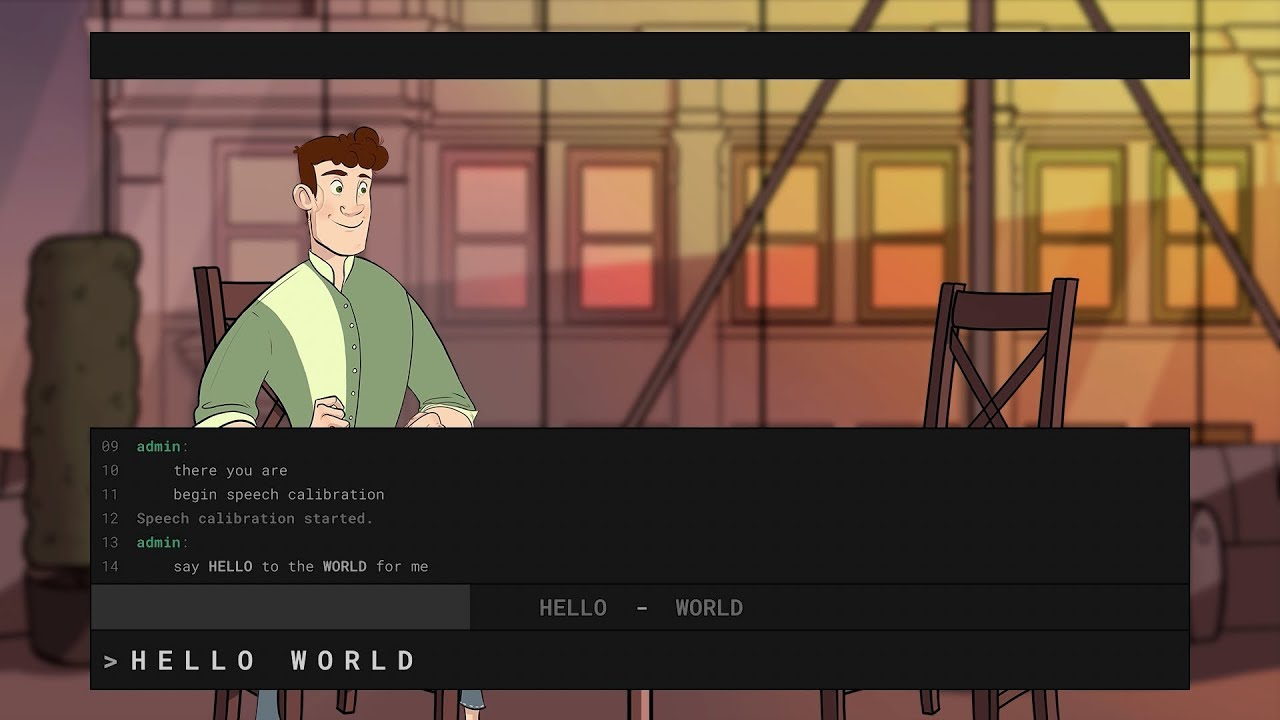
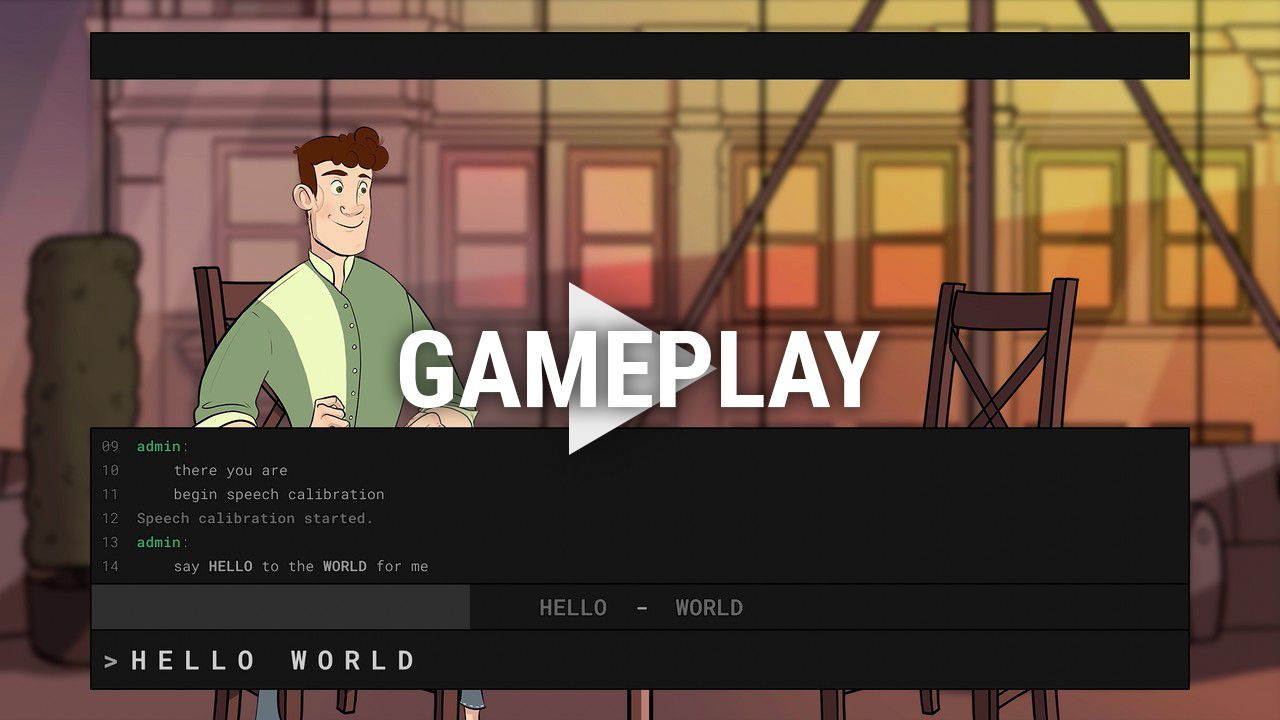
Removed redundant images, added new text and videos

diff --git a/schacht.html b/schacht.html
@@ -71,7 +71,7 @@
     </nav>
 </section>
 
-<section class="engine"><a href="https://mobirise.me/u">bootstrap website templates</a></section><section class="mbr-section article content1 cid-qQgb2jvf1m" id="content1-m">
+<section class="engine"><a href="https://mobirise.me/c">free web builder</a></section><section class="mbr-section article content1 cid-qQgb2jvf1m" id="content1-m">
     
      
 
@@ -159,11 +159,11 @@
                     <div id="bootstrap-toggle" class="toggle-panel accordionStyles tab-content">
                         <div class="card">
                             <div class="card-header" role="tab" id="headingOne">
-                                <a role="button" class="collapsed panel-title text-black" data-toggle="collapse" data-parent="#accordion" data-core="" href="#collapse1_81" aria-expanded="false" aria-controls="collapse1">
+                                <a role="button" class="collapsed panel-title text-black" data-toggle="collapse" data-parent="#accordion" data-core="" href="#collapse1_17" aria-expanded="false" aria-controls="collapse1">
                                     <h4 class="mbr-fonts-style display-7"><strong>▼ GAME DESIGN TASKS</strong></h4>
                                 </a>
                             </div>
-                            <div id="collapse1_81" class="panel-collapse noScroll collapse" role="tabpanel" aria-labelledby="headingOne">
+                            <div id="collapse1_17" class="panel-collapse noScroll collapse" role="tabpanel" aria-labelledby="headingOne">
                                 <div class="panel-body p-4">
                                     <p class="mbr-fonts-style panel-text display-7">- Pitched, designed, documented and refined numerous <strong>character abilities</strong> and<strong> level elements</strong>.
 <br>
@@ -175,12 +175,12 @@
                         </div>
                         <div class="card">
                             <div class="card-header" role="tab" id="headingTwo">
-                                <a role="button" class="collapsed panel-title text-black" data-toggle="collapse" data-parent="#accordion" data-core="" href="#collapse2_81" aria-expanded="false" aria-controls="collapse2">
+                                <a role="button" class="collapsed panel-title text-black" data-toggle="collapse" data-parent="#accordion" data-core="" href="#collapse2_17" aria-expanded="false" aria-controls="collapse2">
                                     <h4 class="mbr-fonts-style display-5"><strong>▼ LEVEL DESIGN TASKS</strong></h4>
                                 </a>
 
                             </div>
-                            <div id="collapse2_81" class="panel-collapse noScroll collapse" role="tabpanel" aria-labelledby="headingTwo">
+                            <div id="collapse2_17" class="panel-collapse noScroll collapse" role="tabpanel" aria-labelledby="headingTwo">
                                 <div class="panel-body p-4">
                                     <p class="mbr-fonts-style panel-text display-7">- Created the introductory <strong>tutorial level of the game</strong> in collaboration with the lead artist.
 <br>
@@ -203,7 +203,7 @@
     
 
     <div>
-        <div><!-- Filter --><!-- Gallery --><div class="mbr-gallery-row"><div class="mbr-gallery-layout-default"><div><div><div class="mbr-gallery-item mbr-gallery-item--p0" data-video-url="false" data-tags="Animated"><div href="#lb-gallery3-43" data-slide-to="0" data-toggle="modal"><img src="assets/images/ss-schacht-5-800x450.jpg" alt="" title=""><span class="icon-focus"></span></div></div><div class="mbr-gallery-item mbr-gallery-item--p0" data-video-url="false" data-tags="Responsive"><div href="#lb-gallery3-43" data-slide-to="1" data-toggle="modal"><img src="assets/images/ss-schacht-12-800x450.jpg" alt="" title=""><span class="icon-focus"></span></div></div><div class="mbr-gallery-item mbr-gallery-item--p0" data-video-url="false" data-tags="Awesome"><div href="#lb-gallery3-43" data-slide-to="2" data-toggle="modal"><img src="assets/images/ss-schacht-3-800x450.jpg" alt="" title=""><span class="icon-focus"></span></div></div><div class="mbr-gallery-item mbr-gallery-item--p0" data-video-url="false" data-tags="Awesome"><div href="#lb-gallery3-43" data-slide-to="3" data-toggle="modal"><img src="assets/images/ss-schacht-6-800x450.jpg" alt="" title=""><span class="icon-focus"></span></div></div></div></div><div class="clearfix"></div></div></div><!-- Lightbox --><div data-app-prevent-settings="" class="mbr-slider modal fade carousel slide" tabindex="-1" data-keyboard="true" data-interval="false" id="lb-gallery3-43"><div class="modal-dialog"><div class="modal-content"><div class="modal-body"><div class="carousel-inner"><div class="carousel-item"><img src="assets/images/ss-schacht-5.jpg" alt="" title=""></div><div class="carousel-item active"><img src="assets/images/ss-schacht-12.jpg" alt="" title=""></div><div class="carousel-item"><img src="assets/images/ss-schacht-3.jpg" alt="" title=""></div><div class="carousel-item"><img src="assets/images/ss-schacht-6.jpg" alt="" title=""></div></div><a class="carousel-control carousel-control-prev" role="button" data-slide="prev" href="#lb-gallery3-43"><span class="mbri-left mbr-iconfont" aria-hidden="true"></span><span class="sr-only">Previous</span></a><a class="carousel-control carousel-control-next" role="button" data-slide="next" href="#lb-gallery3-43"><span class="mbri-right mbr-iconfont" aria-hidden="true"></span><span class="sr-only">Next</span></a><a class="close" href="#" role="button" data-dismiss="modal"><span class="sr-only">Close</span></a></div></div></div></div></div>
+        <div><!-- Filter --><!-- Gallery --><div class="mbr-gallery-row"><div class="mbr-gallery-layout-default"><div><div><div class="mbr-gallery-item mbr-gallery-item--p0 video-slide" data-video-url="https://www.youtube.com/watch?v=XiZfLED2Hyw" data-tags="Animated"><div href="#lb-gallery3-43" data-slide-to="0" data-toggle="modal"><div></div><img alt="" src="assets/images/2019-3-2-1-14-43-853197.jpg"><span class="icon-video"></span></div></div><div class="mbr-gallery-item mbr-gallery-item--p0" data-video-url="false" data-tags="Responsive"><div href="#lb-gallery3-43" data-slide-to="1" data-toggle="modal"><img src="assets/images/ss-schacht-12-800x450.jpg" alt="" title=""><span class="icon-focus"></span></div></div><div class="mbr-gallery-item mbr-gallery-item--p0" data-video-url="false" data-tags="Awesome"><div href="#lb-gallery3-43" data-slide-to="2" data-toggle="modal"><img src="assets/images/ss-schacht-3-800x450.jpg" alt="" title=""><span class="icon-focus"></span></div></div><div class="mbr-gallery-item mbr-gallery-item--p0" data-video-url="false" data-tags="Awesome"><div href="#lb-gallery3-43" data-slide-to="3" data-toggle="modal"><img src="assets/images/ss-schacht-6-800x450.jpg" alt="" title=""><span class="icon-focus"></span></div></div></div></div><div class="clearfix"></div></div></div><!-- Lightbox --><div data-app-prevent-settings="" class="mbr-slider modal fade carousel slide" tabindex="-1" data-keyboard="true" data-interval="false" id="lb-gallery3-43"><div class="modal-dialog"><div class="modal-content"><div class="modal-body"><div class="carousel-inner"><div class="carousel-item active video-container"><img src="assets/images/ss-schacht-5.jpg" alt="" title=""></div><div class="carousel-item"><img src="assets/images/ss-schacht-12.jpg" alt="" title=""></div><div class="carousel-item"><img src="assets/images/ss-schacht-3.jpg" alt="" title=""></div><div class="carousel-item"><img src="assets/images/ss-schacht-6.jpg" alt="" title=""></div></div><a class="carousel-control carousel-control-prev" role="button" data-slide="prev" href="#lb-gallery3-43"><span class="mbri-left mbr-iconfont" aria-hidden="true"></span><span class="sr-only">Previous</span></a><a class="carousel-control carousel-control-next" role="button" data-slide="next" href="#lb-gallery3-43"><span class="mbri-right mbr-iconfont" aria-hidden="true"></span><span class="sr-only">Next</span></a><a class="close" href="#" role="button" data-dismiss="modal"><span class="sr-only">Close</span></a></div></div></div></div></div>
     </div>
 
 </section>
@@ -232,7 +232,7 @@
     
 
     <div>
-        <div><!-- Filter --><!-- Gallery --><div class="mbr-gallery-row"><div class="mbr-gallery-layout-default"><div><div><div class="mbr-gallery-item mbr-gallery-item--p0" data-video-url="false" data-tags="Responsive"><div href="#lb-gallery3-3p" data-slide-to="0" data-toggle="modal"><img src="assets/images/ss-schacht-level1-plan-800x450.jpg" alt="" title=""><span class="icon-focus"></span></div></div><div class="mbr-gallery-item mbr-gallery-item--p0" data-video-url="false" data-tags="Responsive"><div href="#lb-gallery3-3p" data-slide-to="1" data-toggle="modal"><img src="assets/images/ss-schacht-level1-final-800x450.jpg" alt="" title=""><span class="icon-focus"></span></div></div><div class="mbr-gallery-item mbr-gallery-item--p0 video-slide" data-video-url="https://www.youtube.com/watch?v=93_LXzhvsWM" data-tags="Responsive"><div href="#lb-gallery3-3p" data-slide-to="2" data-toggle="modal"><div></div><img alt="" src="assets/images/2018-5-1-18-41-10-168879.jpg"><span class="icon-video"></span></div></div></div></div><div class="clearfix"></div></div></div><!-- Lightbox --><div data-app-prevent-settings="" class="mbr-slider modal fade carousel slide" tabindex="-1" data-keyboard="true" data-interval="false" id="lb-gallery3-3p"><div class="modal-dialog"><div class="modal-content"><div class="modal-body"><div class="carousel-inner"><div class="carousel-item"><img src="assets/images/ss-schacht-level1-plan.jpg" alt="" title=""></div><div class="carousel-item"><img src="assets/images/ss-schacht-level1-final.jpg" alt="" title=""></div><div class="carousel-item active video-container"><img src="assets/images/ss-schacht-level1-final.jpg" alt="" title=""></div></div><a class="carousel-control carousel-control-prev" role="button" data-slide="prev" href="#lb-gallery3-3p"><span class="mbri-left mbr-iconfont" aria-hidden="true"></span><span class="sr-only">Previous</span></a><a class="carousel-control carousel-control-next" role="button" data-slide="next" href="#lb-gallery3-3p"><span class="mbri-right mbr-iconfont" aria-hidden="true"></span><span class="sr-only">Next</span></a><a class="close" href="#" role="button" data-dismiss="modal"><span class="sr-only">Close</span></a></div></div></div></div></div>
+        <div><!-- Filter --><!-- Gallery --><div class="mbr-gallery-row"><div class="mbr-gallery-layout-default"><div><div><div class="mbr-gallery-item mbr-gallery-item--p0 video-slide" data-video-url="https://www.youtube.com/watch?v=93_LXzhvsWM" data-tags="Responsive"><div href="#lb-gallery3-3p" data-slide-to="0" data-toggle="modal"><div></div><img alt="" src="assets/images/2018-5-1-18-41-10-168879.jpg"><span class="icon-video"></span></div></div><div class="mbr-gallery-item mbr-gallery-item--p0" data-video-url="false" data-tags="Responsive"><div href="#lb-gallery3-3p" data-slide-to="1" data-toggle="modal"><img src="assets/images/ss-schacht-level1-plan-800x450.jpg" alt="" title=""><span class="icon-focus"></span></div></div><div class="mbr-gallery-item mbr-gallery-item--p0" data-video-url="false" data-tags="Responsive"><div href="#lb-gallery3-3p" data-slide-to="2" data-toggle="modal"><img src="assets/images/ss-schacht-level1-final-800x450.jpg" alt="" title=""><span class="icon-focus"></span></div></div></div></div><div class="clearfix"></div></div></div><!-- Lightbox --><div data-app-prevent-settings="" class="mbr-slider modal fade carousel slide" tabindex="-1" data-keyboard="true" data-interval="false" id="lb-gallery3-3p"><div class="modal-dialog"><div class="modal-content"><div class="modal-body"><div class="carousel-inner"><div class="carousel-item active video-container"><img src="assets/images/ss-schacht-level1-final.jpg" alt="" title=""></div><div class="carousel-item"><img src="assets/images/ss-schacht-level1-plan.jpg" alt="" title=""></div><div class="carousel-item"><img src="assets/images/ss-schacht-level1-final.jpg" alt="" title=""></div></div><a class="carousel-control carousel-control-prev" role="button" data-slide="prev" href="#lb-gallery3-3p"><span class="mbri-left mbr-iconfont" aria-hidden="true"></span><span class="sr-only">Previous</span></a><a class="carousel-control carousel-control-next" role="button" data-slide="next" href="#lb-gallery3-3p"><span class="mbri-right mbr-iconfont" aria-hidden="true"></span><span class="sr-only">Next</span></a><a class="close" href="#" role="button" data-dismiss="modal"><span class="sr-only">Close</span></a></div></div></div></div></div>
     </div>
 
 </section>

diff --git a/twin-sprouts.html b/twin-sprouts.html
@@ -71,7 +71,7 @@
     </nav>
 </section>
 
-<section class="engine"><a href="https://mobirise.me/b">how to create a site</a></section><section class="mbr-section article content1 cid-qQtd5U7zAG" id="content1-2b">
+<section class="engine"><a href="https://mobirise.me/k">develop free website</a></section><section class="mbr-section article content1 cid-qQtd5U7zAG" id="content1-2b">
     
      
 
@@ -122,7 +122,7 @@
 
     <div class="container">
         <div class="media-container-row">
-            <div class="mbr-text col-12 col-md-8 mbr-fonts-style display-7"><p><span style="font-size: 1rem;">Twin Sprouts was developed by a team of 4 students at Cologne Game Lab as a semester project in a short period of 2 months.</span></p><p><span style="font-size: 1rem;">In addition to collaborating on gameplay design with other team members, <strong>producing documentation, organizing playtests </strong>and <strong>creating the level</strong> of the game, I took on the mantle of the <strong>project manager</strong>, managing the project pipeline around the main constraints of time and scope.</span></p></div>
+            <div class="mbr-text col-12 col-md-8 mbr-fonts-style display-7"><p><span style="font-size: 1rem;">Twin Sprouts was developed by a team of 4 students at Cologne Game Lab as a semester project in a short period of 2 months.</span></p><p><span style="font-size: 1rem;">In addition to collaborating on gameplay design with other team members, <strong>producing documentation, organizing playtests </strong>and <strong>creating the level</strong> of the game, I took on the mantle of the <strong>project manager</strong>, managing the project pipeline around the main constraints of time and scope.</span></p><p><span style="font-size: 1rem;">Perhaps the most interesting aspect of Twin Sprouts is the <strong>unique blend of cooperative and competitive gameplay</strong>. The game is played by two players who share the goal of growing their shared garden. The score of each player is tracked individually during gameplay, and combined at the end of the round. Both the <strong>individual and team scores</strong> are saved on two separate leaderboards</span><span style="font-size: 1rem;">. The more competitive the players are during the session, the higher their combined scores will be in the end.</span></p></div>
         </div>
     </div>
 </section>
@@ -147,7 +147,7 @@
     
 
     <div>
-        <div><!-- Filter --><!-- Gallery --><div class="mbr-gallery-row"><div class="mbr-gallery-layout-default"><div><div><div class="mbr-gallery-item mbr-gallery-item--p0" data-video-url="false" data-tags="Awesome"><div href="#lb-gallery1-2g" data-slide-to="0" data-toggle="modal"><img src="assets/images/ss-ts-1-800x450.jpg" alt="" title=""><span class="icon-focus"></span></div></div><div class="mbr-gallery-item mbr-gallery-item--p0" data-video-url="false" data-tags="Responsive"><div href="#lb-gallery1-2g" data-slide-to="1" data-toggle="modal"><img src="assets/images/ss-ts-2-800x450.jpg" alt="" title=""><span class="icon-focus"></span></div></div><div class="mbr-gallery-item mbr-gallery-item--p0" data-video-url="false" data-tags="Creative"><div href="#lb-gallery1-2g" data-slide-to="2" data-toggle="modal"><img src="assets/images/ss-ts-3-800x450.jpg" alt="" title=""><span class="icon-focus"></span></div></div><div class="mbr-gallery-item mbr-gallery-item--p0" data-video-url="false" data-tags="Creative"><div href="#lb-gallery1-2g" data-slide-to="3" data-toggle="modal"><img src="assets/images/ss-ts-4-800x450.jpg" alt="" title=""><span class="icon-focus"></span></div></div></div></div><div class="clearfix"></div></div></div><!-- Lightbox --><div data-app-prevent-settings="" class="mbr-slider modal fade carousel slide" tabindex="-1" data-keyboard="true" data-interval="false" id="lb-gallery1-2g"><div class="modal-dialog"><div class="modal-content"><div class="modal-body"><div class="carousel-inner"><div class="carousel-item"><img src="assets/images/ss-ts-1.jpg" alt="" title=""></div><div class="carousel-item"><img src="assets/images/ss-ts-2.jpg" alt="" title=""></div><div class="carousel-item"><img src="assets/images/ss-ts-3.jpg" alt="" title=""></div><div class="carousel-item active"><img src="assets/images/ss-ts-4.jpg" alt="" title=""></div></div><a class="carousel-control carousel-control-prev" role="button" data-slide="prev" href="#lb-gallery1-2g"><span class="mbri-left mbr-iconfont" aria-hidden="true"></span><span class="sr-only">Previous</span></a><a class="carousel-control carousel-control-next" role="button" data-slide="next" href="#lb-gallery1-2g"><span class="mbri-right mbr-iconfont" aria-hidden="true"></span><span class="sr-only">Next</span></a><a class="close" href="#" role="button" data-dismiss="modal"><span class="sr-only">Close</span></a></div></div></div></div></div>
+        <div><!-- Filter --><!-- Gallery --><div class="mbr-gallery-row"><div class="mbr-gallery-layout-default"><div><div><div class="mbr-gallery-item mbr-gallery-item--p0 video-slide" data-video-url="https://www.youtube.com/watch?v=nXSHxSimhN0" data-tags="Creative"><div href="#lb-gallery1-2g" data-slide-to="0" data-toggle="modal"><div></div><img alt="" src="assets/images/2019-3-2-1-23-59-92827.jpg"><span class="icon-video"></span></div></div><div class="mbr-gallery-item mbr-gallery-item--p0" data-video-url="false" data-tags="Awesome"><div href="#lb-gallery1-2g" data-slide-to="1" data-toggle="modal"><img src="assets/images/ss-ts-1-800x450.jpg" alt="" title=""><span class="icon-focus"></span></div></div><div class="mbr-gallery-item mbr-gallery-item--p0" data-video-url="false" data-tags="Responsive"><div href="#lb-gallery1-2g" data-slide-to="2" data-toggle="modal"><img src="assets/images/ss-ts-2-800x450.jpg" alt="" title=""><span class="icon-focus"></span></div></div><div class="mbr-gallery-item mbr-gallery-item--p0" data-video-url="false" data-tags="Creative"><div href="#lb-gallery1-2g" data-slide-to="3" data-toggle="modal"><img src="assets/images/ss-ts-4-800x450.jpg" alt="" title=""><span class="icon-focus"></span></div></div></div></div><div class="clearfix"></div></div></div><!-- Lightbox --><div data-app-prevent-settings="" class="mbr-slider modal fade carousel slide" tabindex="-1" data-keyboard="true" data-interval="false" id="lb-gallery1-2g"><div class="modal-dialog"><div class="modal-content"><div class="modal-body"><div class="carousel-inner"><div class="carousel-item active video-container"><img src="assets/images/ss-ts-3.jpg" alt="" title=""></div><div class="carousel-item"><img src="assets/images/ss-ts-1.jpg" alt="" title=""></div><div class="carousel-item"><img src="assets/images/ss-ts-2.jpg" alt="" title=""></div><div class="carousel-item"><img src="assets/images/ss-ts-4.jpg" alt="" title=""></div></div><a class="carousel-control carousel-control-prev" role="button" data-slide="prev" href="#lb-gallery1-2g"><span class="mbri-left mbr-iconfont" aria-hidden="true"></span><span class="sr-only">Previous</span></a><a class="carousel-control carousel-control-next" role="button" data-slide="next" href="#lb-gallery1-2g"><span class="mbri-right mbr-iconfont" aria-hidden="true"></span><span class="sr-only">Next</span></a><a class="close" href="#" role="button" data-dismiss="modal"><span class="sr-only">Close</span></a></div></div></div></div></div>
     </div>
 
 </section>

diff --git a/what-the-cluck.html b/what-the-cluck.html
@@ -71,7 +71,7 @@
     </nav>
 </section>
 
-<section class="engine"><a href="https://mobirise.me/m">free web design templates</a></section><section class="mbr-section article content1 cid-qQgJJLECgr" id="content1-11">
+<section class="engine"><a href="https://mobirise.me/l">free website templates</a></section><section class="mbr-section article content1 cid-qQgJJLECgr" id="content1-11">
     
      
 
@@ -154,11 +154,11 @@
                     <div id="bootstrap-toggle" class="toggle-panel accordionStyles tab-content">
                         <div class="card">
                             <div class="card-header" role="tab" id="headingOne">
-                                <a role="button" class="collapsed panel-title text-black" data-toggle="collapse" data-parent="#accordion" data-core="" href="#collapse1_28" aria-expanded="false" aria-controls="collapse1">
+                                <a role="button" class="collapsed panel-title text-black" data-toggle="collapse" data-parent="#accordion" data-core="" href="#collapse1_34" aria-expanded="false" aria-controls="collapse1">
                                     <h4 class="mbr-fonts-style display-7"><strong>▼ GAME DESIGN TASKS</strong></h4>
                                 </a>
                             </div>
-                            <div id="collapse1_28" class="panel-collapse noScroll collapse" role="tabpanel" aria-labelledby="headingOne">
+                            <div id="collapse1_34" class="panel-collapse noScroll collapse" role="tabpanel" aria-labelledby="headingOne">
                                 <div class="panel-body p-4">
                                     <p class="mbr-fonts-style panel-text display-7">- <strong>Led the content design team</strong>, distributing tasks between team members and keeping track of their work on JIRA.<br><br>- Oversaw the designing process of <strong>three separate multiplayer game modes</strong>.<br><br>- Worked loosely on the <strong>setting, camera and user interface</strong> with other members of the design team.</p>
                                 </div>
@@ -166,12 +166,12 @@
                         </div>
                         <div class="card">
                             <div class="card-header" role="tab" id="headingTwo">
-                                <a role="button" class="collapsed panel-title text-black" data-toggle="collapse" data-parent="#accordion" data-core="" href="#collapse2_28" aria-expanded="false" aria-controls="collapse2">
+                                <a role="button" class="collapsed panel-title text-black" data-toggle="collapse" data-parent="#accordion" data-core="" href="#collapse2_34" aria-expanded="false" aria-controls="collapse2">
                                     <h4 class="mbr-fonts-style display-7"><strong>▼ LEVEL DESIGN TASKS</strong></h4>
                                 </a>
 
                             </div>
-                            <div id="collapse2_28" class="panel-collapse noScroll collapse" role="tabpanel" aria-labelledby="headingTwo">
+                            <div id="collapse2_34" class="panel-collapse noScroll collapse" role="tabpanel" aria-labelledby="headingTwo">
                                 <div class="panel-body p-4">
                                     <p class="mbr-fonts-style panel-text display-7">- Designed and built <strong>five maps</strong> for different game modes.<br><br>- Iterated heavily on different map layouts to find the best fit for different game modes and player count.<br><br>- Created the <strong>cinematic tutorial introduction</strong> for level maps; including animated sequences, camera setup and user interface.<br></p>
                                 </div>

diff --git a/super-combat-high.html b/super-combat-high.html
@@ -71,7 +71,7 @@
     </nav>
 </section>
 
-<section class="engine"><a href="https://mobirise.me/n">free landing page templates</a></section><section class="mbr-section article content1 cid-qUG1WM5qW0" id="content1-3r">
+<section class="engine"><a href="https://mobirise.me/q">responsive website templates</a></section><section class="mbr-section article content1 cid-qUG1WM5qW0" id="content1-3r">
     
      
 
@@ -155,11 +155,11 @@
                     <div id="bootstrap-toggle" class="toggle-panel accordionStyles tab-content">
                         <div class="card">
                             <div class="card-header" role="tab" id="headingOne">
-                                <a role="button" class="collapsed panel-title text-black" data-toggle="collapse" data-parent="#accordion" data-core="" href="#collapse1_48" aria-expanded="false" aria-controls="collapse1">
+                                <a role="button" class="collapsed panel-title text-black" data-toggle="collapse" data-parent="#accordion" data-core="" href="#collapse1_54" aria-expanded="false" aria-controls="collapse1">
                                     <h4 class="mbr-fonts-style display-7"><strong>▼ GAME DESIGN TASKS</strong></h4>
                                 </a>
                             </div>
-                            <div id="collapse1_48" class="panel-collapse noScroll collapse" role="tabpanel" aria-labelledby="headingOne">
+                            <div id="collapse1_54" class="panel-collapse noScroll collapse" role="tabpanel" aria-labelledby="headingOne">
                                 <div class="panel-body p-4">
                                     <p class="mbr-fonts-style panel-text display-7">- Created and updated the <strong>game design wiki on Confluence</strong>.
 <br>
@@ -171,12 +171,12 @@
                         </div>
                         <div class="card">
                             <div class="card-header" role="tab" id="headingTwo">
-                                <a role="button" class="collapsed panel-title text-black" data-toggle="collapse" data-parent="#accordion" data-core="" href="#collapse2_48" aria-expanded="false" aria-controls="collapse2">
+                                <a role="button" class="collapsed panel-title text-black" data-toggle="collapse" data-parent="#accordion" data-core="" href="#collapse2_54" aria-expanded="false" aria-controls="collapse2">
                                     <h4 class="mbr-fonts-style display-5"><strong>▼ LEVEL DESIGN TASKS</strong></h4>
                                 </a>
 
                             </div>
-                            <div id="collapse2_48" class="panel-collapse noScroll collapse" role="tabpanel" aria-labelledby="headingTwo">
+                            <div id="collapse2_54" class="panel-collapse noScroll collapse" role="tabpanel" aria-labelledby="headingTwo">
                                 <div class="panel-body p-4">
                                     <p class="mbr-fonts-style panel-text display-7">- Designed and built the <strong>Chemistry 101 level</strong> in its entirety.<br><br>- Created numerous <strong>cinematic level sequences</strong> to enhance the level concept.<br></p>
                                 </div>

diff --git a/mercedes-benz.html b/mercedes-benz.html
@@ -71,7 +71,7 @@
     </nav>
 </section>
 
-<section class="engine"><a href="https://mobirise.me/z">best free css templates</a></section><section class="mbr-section article content1 cid-qQg8Lc39hY" id="content1-k">
+<section class="engine"><a href="https://mobirise.me/p">site templates free download</a></section><section class="mbr-section article content1 cid-qQg8Lc39hY" id="content1-k">
     
      
 

diff --git a/appetite.html b/appetite.html
@@ -71,7 +71,7 @@
     </nav>
 </section>
 
-<section class="engine"><a href="https://mobirise.me/b">create a site for free</a></section><section class="mbr-section article content1 cid-r5aJbupWDA" id="content1-6m">
+<section class="engine"><a href="https://mobirise.me/d">free website maker</a></section><section class="mbr-section article content1 cid-r5aJbupWDA" id="content1-6m">
     
      
 

diff --git a/index3.html b/index3.html
@@ -69,7 +69,7 @@
     </nav>
 </section>
 
-<section class="engine"><a href="https://mobirise.me/z">best free html templates</a></section><section class="mbr-section article content9 cid-rhzPCvJoLa" id="content9-7p">
+<section class="engine"><a href="https://mobirise.me/a">Mobirise review</a></section><section class="mbr-section article content9 cid-rhzPCvJoLa" id="content9-7p">
     
      
 

diff --git a/heart_drive.html b/heart_drive.html
@@ -71,7 +71,7 @@
     </nav>
 </section>
 
-<section class="engine"><a href="https://mobirise.me/z">best html templates</a></section><section class="mbr-section article content1 cid-qZ8dutsVyu" id="content1-4p">
+<section class="engine"><a href="https://mobirise.me/x">free css templates</a></section><section class="mbr-section article content1 cid-qZ8dutsVyu" id="content1-4p">
     
      
 

diff --git a/index.html b/index.html
@@ -69,7 +69,7 @@
     </nav>
 </section>
 
-<section class="engine"><a href="https://mobirise.me/z">best free website templates</a></section><section class="testimonials4 cid-rmqu8H5xXW" id="testimonials4-9r">
+<section class="engine"><a href="https://mobirise.me/m">website design templates</a></section><section class="testimonials4 cid-rmqu8H5xXW" id="testimonials4-9r">
 
   
 

diff --git a/index_old.html b/index_old.html
@@ -70,7 +70,7 @@
     </nav>
 </section>
 
-<section class="engine"><a href="https://mobirise.me/e">make a site</a></section><section class="header6 cid-r0yvBZGarl" id="header6-64">
+<section class="engine"><a href="https://mobirise.me/d">site maker</a></section><section class="header6 cid-r0yvBZGarl" id="header6-64">
 
     
 
